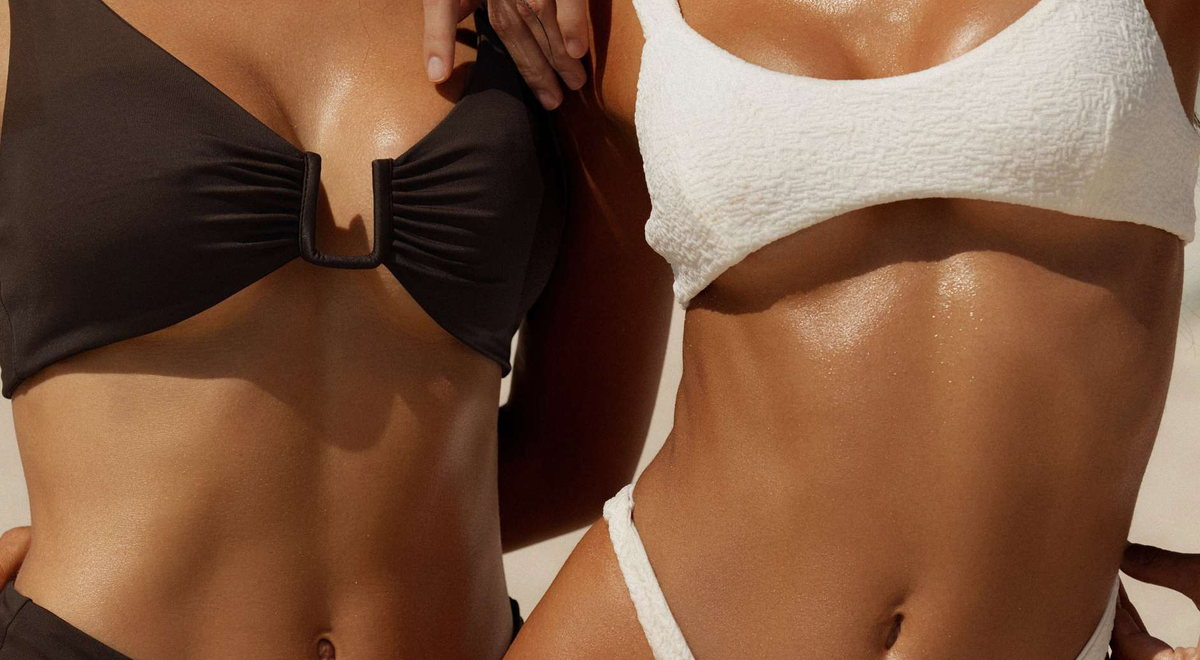
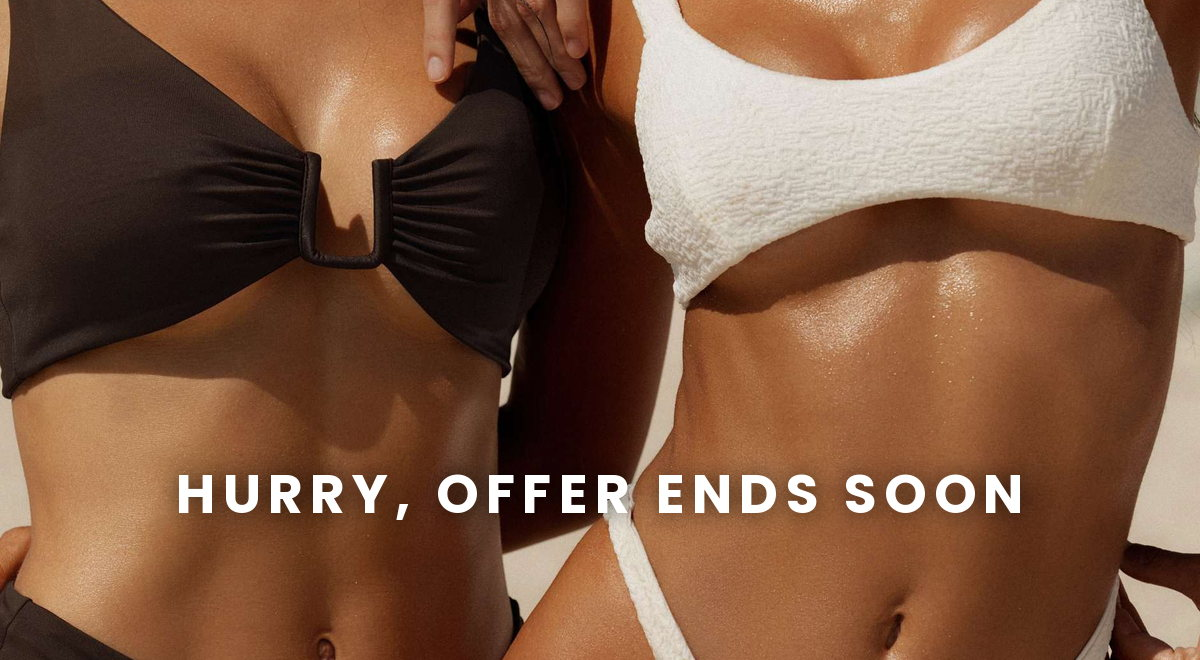
EmailUpdate

Changed region(s): [[0.1233, 0.697, 0.8633, 0.7879]]

diff --git a/existing-campaigns/flashsale/fullcampaign/email.html b/existing-campaigns/flashsale/fullcampaign/email.html
@@ -146,7 +146,7 @@
   <!-- ================================================ 03  MODEL BAND -->
   <tr><td style="padding:0;font-size:0;line-height:0;">
     <a href="https://jimmycoco.co.uk" target="_blank">
-      <img src="https://jimmycoco.email/email-assets/flash-sale/images/model-band.jpg" width="600" height="330" alt="Two models wearing a deep, natural Sunless by Jimmy Coco tan." style="display:block;width:100%;max-width:600px;height:auto;border:0;">
+      <img src="https://jimmycoco.email/email-assets/flash-sale/images/model-band.jpg" width="600" height="330" alt="Hurry, offer ends soon. Two models wearing a deep, natural Sunless by Jimmy Coco tan." style="display:block;width:100%;max-width:600px;height:auto;border:0;">
     </a>
   </td></tr>
 

diff --git a/public/email-assets/flash-sale/email.html b/public/email-assets/flash-sale/email.html
@@ -146,7 +146,7 @@
   <!-- ================================================ 03  MODEL BAND -->
   <tr><td style="padding:0;font-size:0;line-height:0;">
     <a href="https://jimmycoco.co.uk" target="_blank">
-      <img src="https://jimmycoco.email/email-assets/flash-sale/images/model-band.jpg" width="600" height="330" alt="Two models wearing a deep, natural Sunless by Jimmy Coco tan." style="display:block;width:100%;max-width:600px;height:auto;border:0;">
+      <img src="https://jimmycoco.email/email-assets/flash-sale/images/model-band.jpg" width="600" height="330" alt="Hurry, offer ends soon. Two models wearing a deep, natural Sunless by Jimmy Coco tan." style="display:block;width:100%;max-width:600px;height:auto;border:0;">
     </a>
   </td></tr>
 

diff --git a/existing-campaigns/flashsale/fullcampaign/index.html b/existing-campaigns/flashsale/fullcampaign/index.html
@@ -146,7 +146,7 @@
   <!-- ================================================ 03  MODEL BAND -->
   <tr><td style="padding:0;font-size:0;line-height:0;">
     <a href="https://jimmycoco.co.uk" target="_blank">
-      <img src="images/model-band.jpg" width="600" height="330" alt="Two models wearing a deep, natural Sunless by Jimmy Coco tan." style="display:block;width:100%;max-width:600px;height:auto;border:0;">
+      <img src="images/model-band.jpg" width="600" height="330" alt="Hurry, offer ends soon. Two models wearing a deep, natural Sunless by Jimmy Coco tan." style="display:block;width:100%;max-width:600px;height:auto;border:0;">
     </a>
   </td></tr>
 

diff --git a/public/email-assets/flash-sale/index.html b/public/email-assets/flash-sale/index.html
@@ -146,7 +146,7 @@
   <!-- ================================================ 03  MODEL BAND -->
   <tr><td style="padding:0;font-size:0;line-height:0;">
     <a href="https://jimmycoco.co.uk" target="_blank">
-      <img src="images/model-band.jpg" width="600" height="330" alt="Two models wearing a deep, natural Sunless by Jimmy Coco tan." style="display:block;width:100%;max-width:600px;height:auto;border:0;">
+      <img src="images/model-band.jpg" width="600" height="330" alt="Hurry, offer ends soon. Two models wearing a deep, natural Sunless by Jimmy Coco tan." style="display:block;width:100%;max-width:600px;height:auto;border:0;">
     </a>
   </td></tr>
 

diff --git a/existing-campaigns/flashsale/fullcampaign/make_assets.py b/existing-campaigns/flashsale/fullcampaign/make_assets.py
@@ -5,7 +5,7 @@ Several raws are shot on pure white. Rather than dropping a white rectangle onto
 email's warm grey, the white is flood-filled from the corners and replaced with the page
 tone, so those products sit on the background instead of in a box.
 """
-from PIL import Image, ImageDraw, ImageChops
+from PIL import Image, ImageDraw, ImageChops, ImageFont, ImageFilter
 import numpy as np, os, cairosvg
 
 SRC   = '/mnt/user-data/uploads/jimmycoco/existing-campaigns/flashsale'
@@ -14,6 +14,40 @@ PAGE  = (235, 231, 230)   # #EBE7E6 page background
 BAND  = (226, 212, 200)   # #E2D4C8 footer band
 BRONZE = '#BC7D5F'
 os.makedirs(OUT, exist_ok=True)
+
+
+POPPINS = '/usr/share/fonts/truetype/google-fonts/Poppins-Bold.ttf'
+
+
+def tracked_text(im, text, cy, size=54, tracking=7, fill=(255, 255, 255)):
+    """Draw centred, letter-spaced caps with a soft shadow, matching the hero strapline.
+
+    PIL has no letter-spacing, so each glyph is placed individually. The shadow is a
+    blurred copy of the same text rather than a hard offset, so it reads as depth over
+    photography instead of a drop-shadow outline.
+    """
+    font = ImageFont.truetype(POPPINS, size)
+    d0 = ImageDraw.Draw(im)
+    widths = [d0.textlength(c, font=font) for c in text]
+    total = sum(widths) + tracking * (len(text) - 1)
+    x0 = (im.size[0] - total) / 2
+    y0 = cy - size * 0.72
+
+    shadow = Image.new('RGBA', im.size, (0, 0, 0, 0))
+    ds = ImageDraw.Draw(shadow)
+    x = x0
+    for c, w in zip(text, widths):
+        ds.text((x, y0), c, font=font, fill=(0, 0, 0, 165))
+        x += w + tracking
+    shadow = shadow.filter(ImageFilter.GaussianBlur(11))
+    im = Image.alpha_composite(im.convert('RGBA'), shadow)
+
+    d = ImageDraw.Draw(im)
+    x = x0
+    for c, w in zip(text, widths):
+        d.text((x, y0), c, font=font, fill=fill)
+        x += w + tracking
+    return im.convert('RGB')
 
 
 def cover(im, tw, th, bias=0.5):
@@ -127,7 +161,9 @@ for src, name in [('9.jpg', 'bundle-duo'), ('10.jpg', 'bundle-glow-kit'),
 
 # ---- full-bleed model band ---------------------------------------------------
 print('\nBands:')
-save(cover(trim(load('7.jpg')), 1200, 660, bias=0.42), 'model-band')
+# urgency line sits on the 3/4 line, where the photograph is darkest (mean 92/255)
+_band = cover(trim(load('7.jpg')), 1200, 660, bias=0.42)
+save(tracked_text(_band, 'HURRY, OFFER ENDS SOON', round(660 * 0.75)), 'model-band')
 
 # ---- Kylie portrait ----------------------------------------------------------
 save(cover(trim(load('8.jpg')), 760, 1000, bias=0.05), 'kylie')
